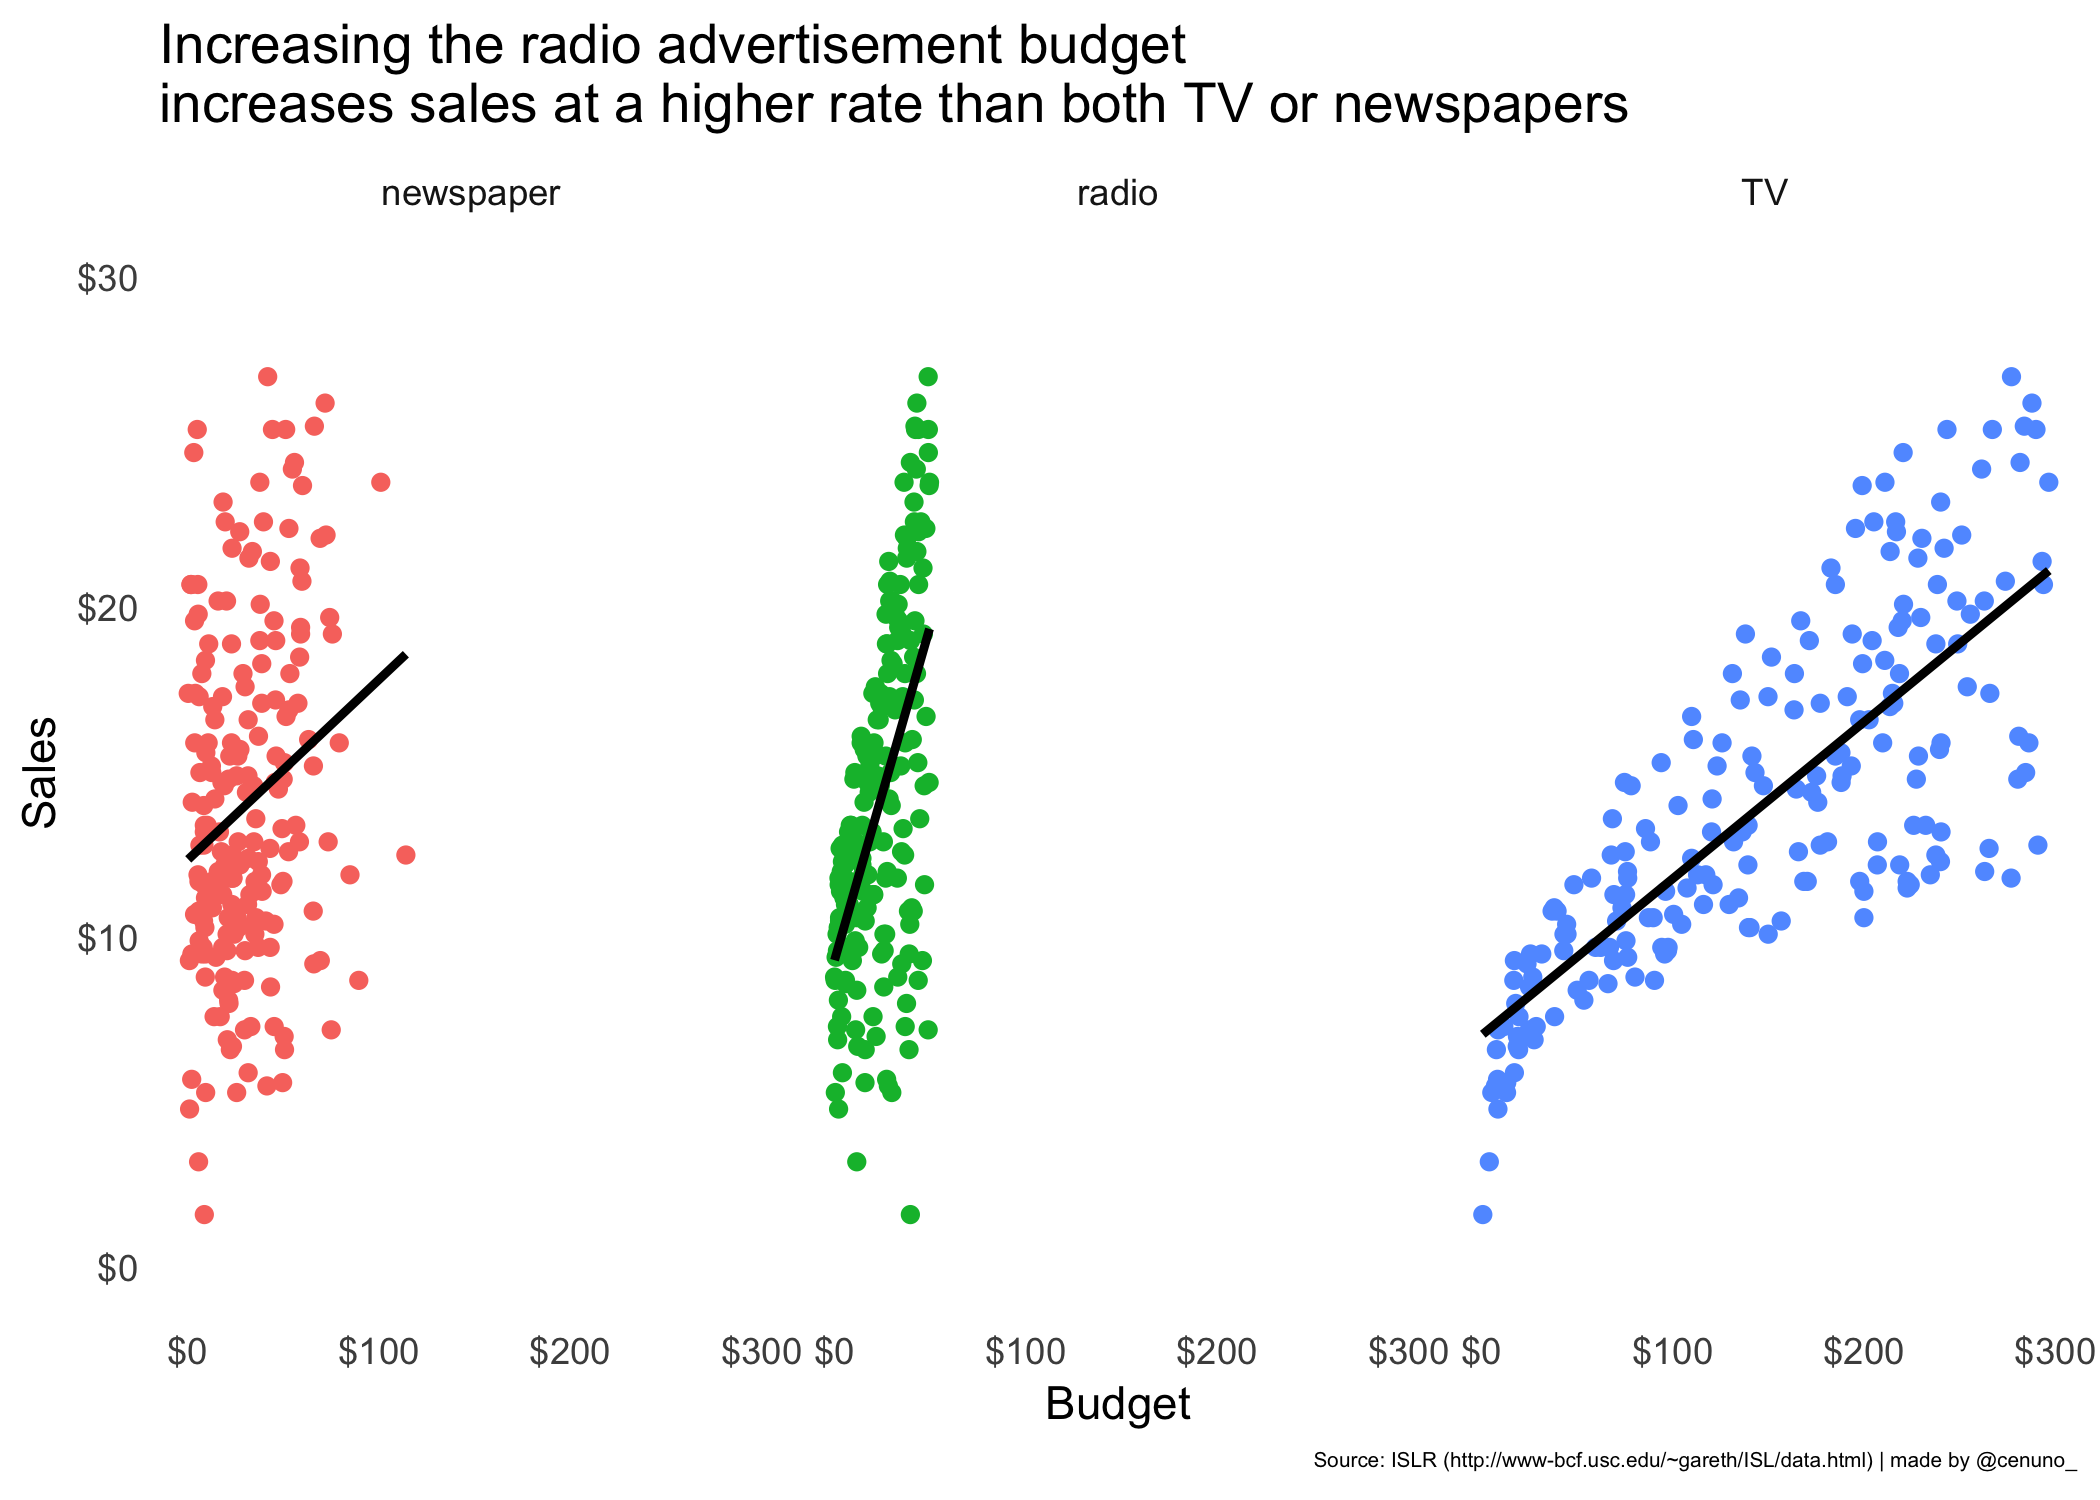
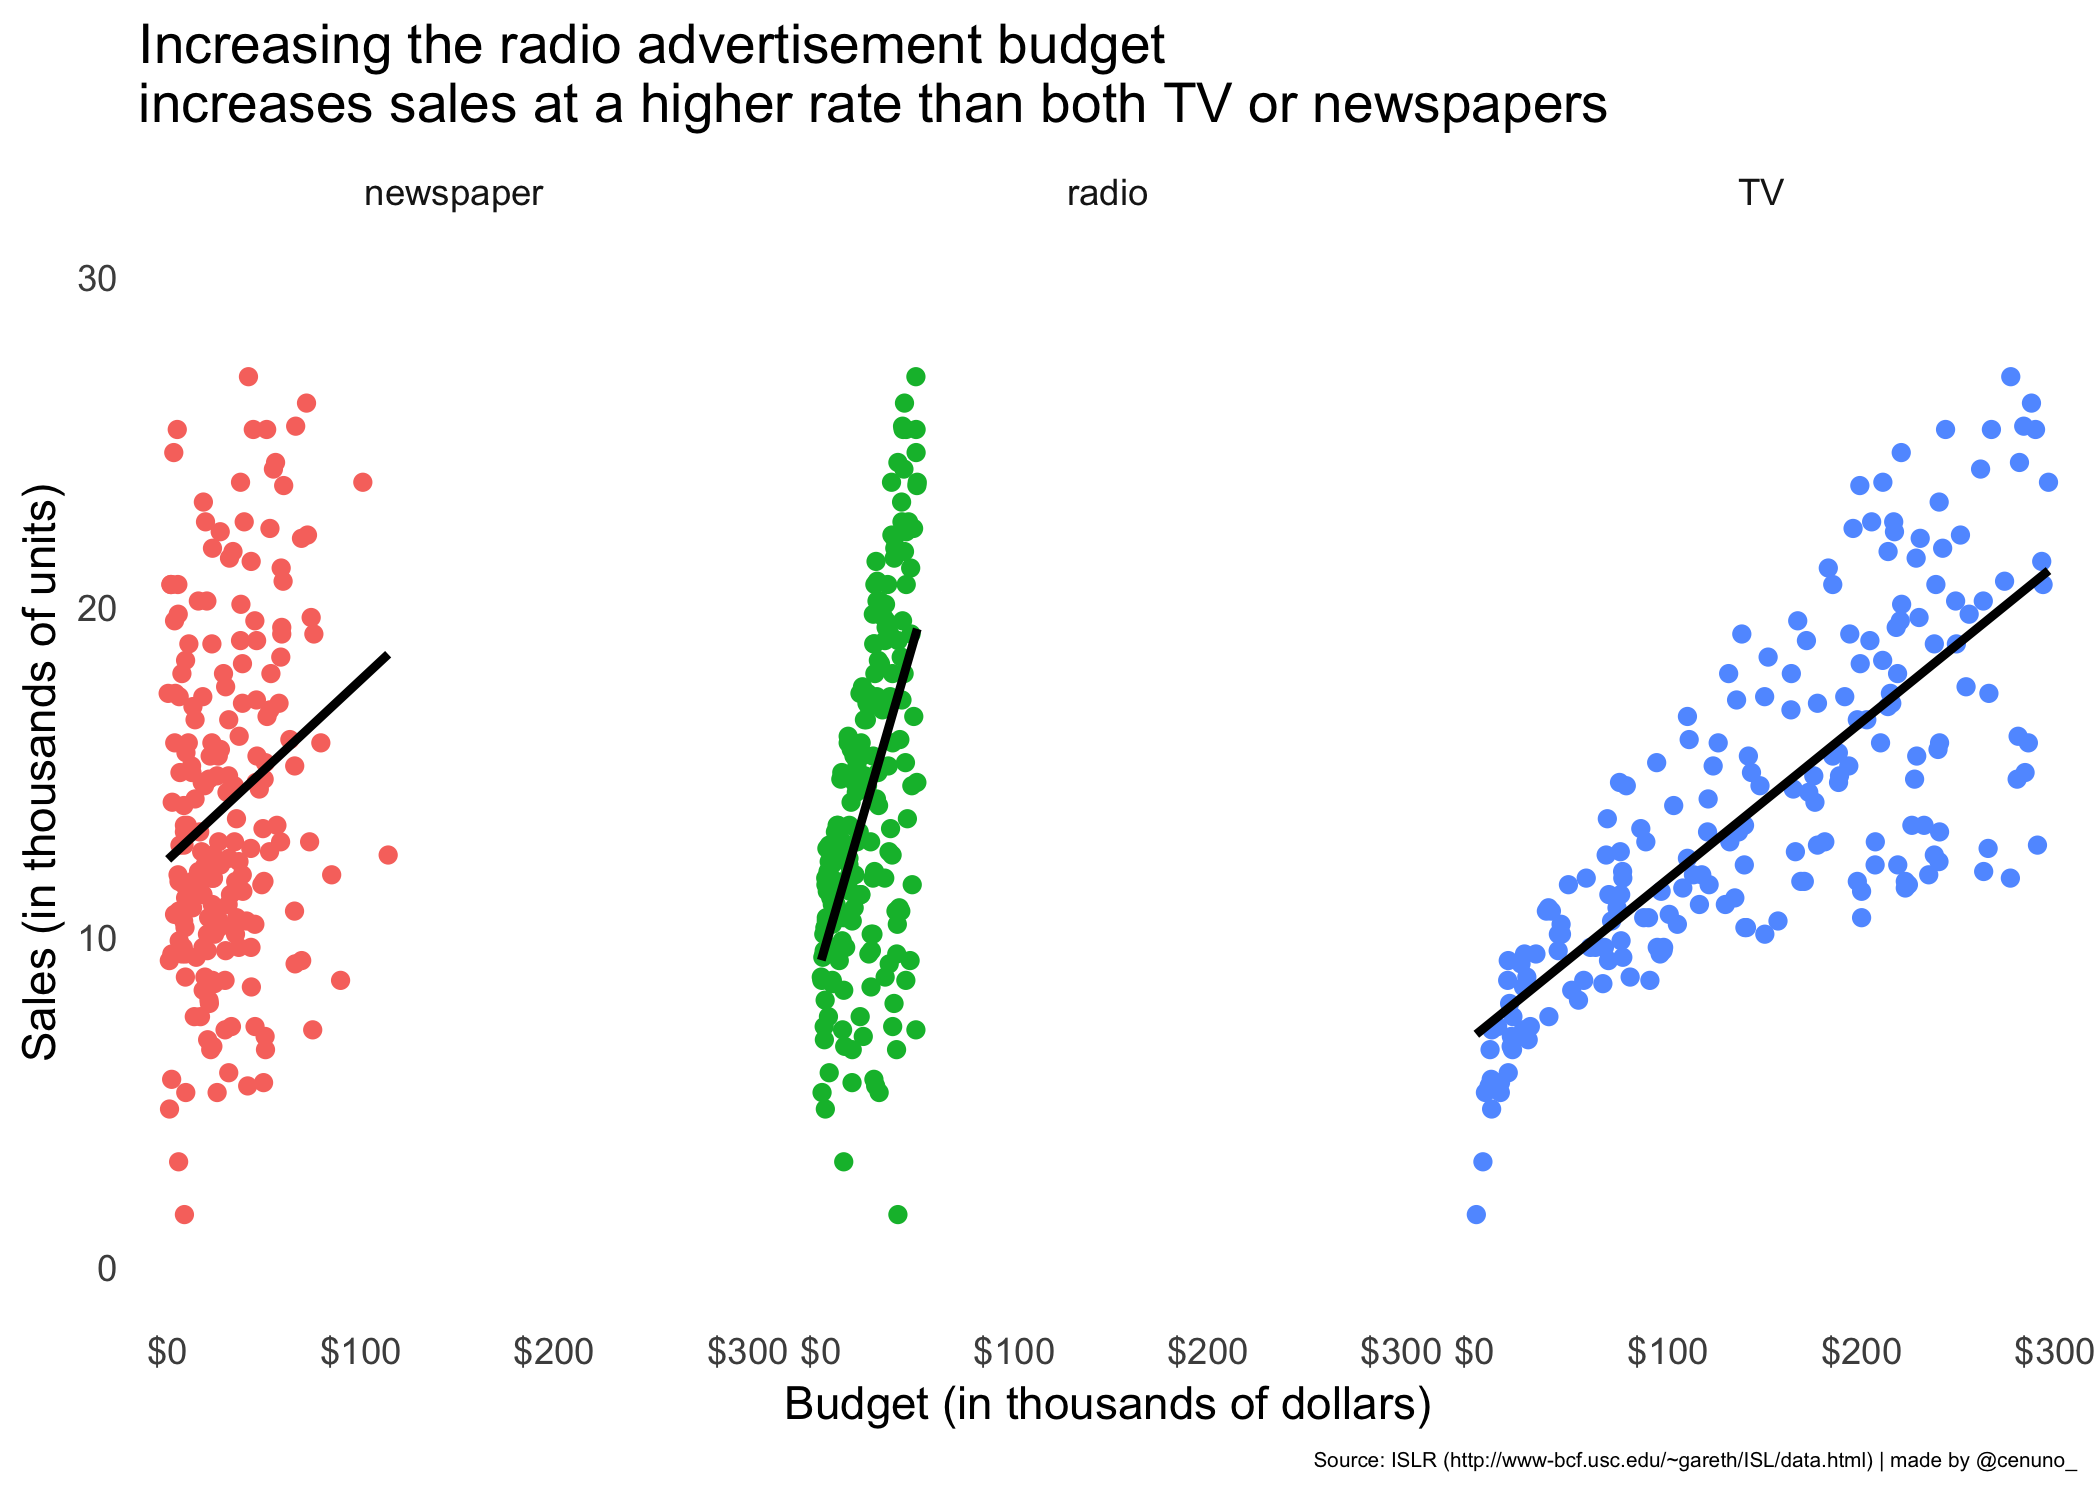
Corrected axes labels for advertising plot.

diff --git a/02_statistical_learning/README.md b/02_statistical_learning/README.md
@@ -81,9 +81,8 @@ df.tidy %>%
   geom_smooth(se = FALSE
               , method = "lm"
               , color = "black") +
-  scale_x_continuous(name = "Budget", labels = dollar) +
-  scale_y_continuous(name = "Sales"
-                     , labels = dollar
+  scale_x_continuous(name = "Budget (in thousands of dollars)", labels = dollar) +
+  scale_y_continuous(name = "Sales (in thousands of units)"
                      , limits = c(0, 30)) +
   facet_wrap(facets = vars(type)) +
   labs(title = "Increasing the radio advertisement budget\nincreases sales at a higher rate than both TV or newspapers"
